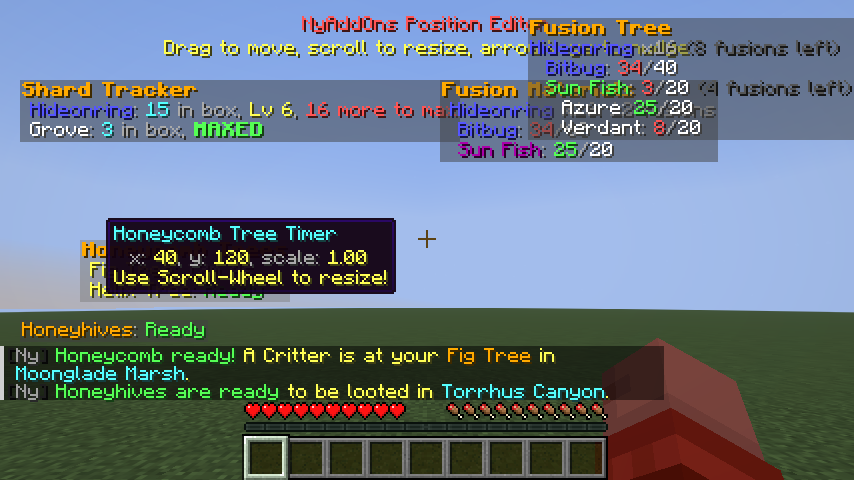
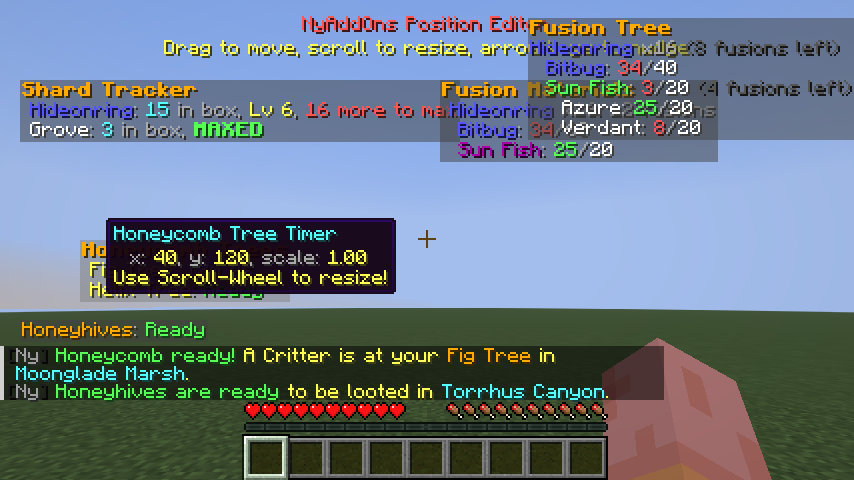
Draw the lime highlight in the background so tooltips and items sit above it (0.5.2)

Changed region(s): [[0.7002, 0.6875, 0.9133, 1.0]]

diff --git a/src/main/kotlin/dev/nytrix/nyaddons/features/hunting/FusionTree.kt b/src/main/kotlin/dev/nytrix/nyaddons/features/hunting/FusionTree.kt
@@ -80,9 +80,12 @@ object FusionTree : Feature {
             if (!ShardTracker.isFusionMenu(title)) return@register
             menuHooks++
             val kind = kindOf(title)
-            // The tree goes in the background, behind the panel, slots and items; the lime highlights stay on top of them.
-            ScreenEvents.afterBackground(screen).register { _, graphics, _, _, _ -> drawTree(screen, kind, graphics) }
-            ScreenEvents.afterExtract(screen).register { _, graphics, _, _, _ -> drawHighlights(screen, kind, graphics) }
+            // Both go in the background: the tree behind the panel, and the lime squares on the panel but under the
+            // slots' items, hover highlight and tooltips, which are drawn later.
+            ScreenEvents.afterBackground(screen).register { _, graphics, _, _, _ ->
+                drawTree(screen, kind, graphics)
+                drawHighlights(screen, kind, graphics)
+            }
         }
     }
 
@@ -236,14 +239,11 @@ object FusionTree : Feature {
     private fun drawHighlights(screen: AbstractContainerScreen<*>, kind: MenuKind, graphics: GuiGraphicsExtractor) {
         if (!config.enabled || !SkyBlockData.onSkyBlock) return
         val frame = frameFor(screen, kind)
-        // A lime background behind the item: fill the slot, then put the item back on top of it.
-        val font = Minecraft.getInstance().font
+        // Only the background is drawn here; the item itself is drawn over it later, by the menu.
         for (slot in frame.highlighted) {
             val x = screen.leftPos + slot.x
             val y = screen.topPos + slot.y
             graphics.fill(x, y, x + 16, y + 16, LIME)
-            graphics.item(slot.item, x, y)
-            graphics.itemDecorations(font, slot.item, x, y)
         }
     }
 

diff --git a/src/gametest/kotlin/dev/nytrix/nyaddons/test/NyAddOnsGameTest.kt b/src/gametest/kotlin/dev/nytrix/nyaddons/test/NyAddOnsGameTest.kt
@@ -496,6 +496,18 @@ class NyAddOnsGameTest : FabricClientGameTest {
         }
         context.takeScreenshot("j-shard-fusion-highlight")
 
+        // Hovering a lit shard: its tooltip must be drawn over the lime square, not under it.
+        val hoverScale = context.computeOnClient<Double, RuntimeException> { it.window.screenWidth.toDouble() / it.window.guiScaledWidth }
+        val (hoverX, hoverY) = context.computeOnClient<Pair<Int, Int>, RuntimeException> {
+            val slot = (it.screen as ContainerScreen).menu.slots[29]
+            (it.window.guiScaledWidth - 176) / 2 + slot.x + 8 to (it.window.guiScaledHeight - 222) / 2 + slot.y + 8
+        }
+        context.input.setCursorPos(hoverX * hoverScale, hoverY * hoverScale)
+        context.waitTicks(10)
+        context.takeScreenshot("j2-shard-fusion-highlight-tooltip")
+        context.input.setCursorPos(2.0, 2.0)
+        context.waitTicks(3)
+
         // F8 copies what is in the menu.
         context.input.pressKey(297)
         context.waitTicks(5)
